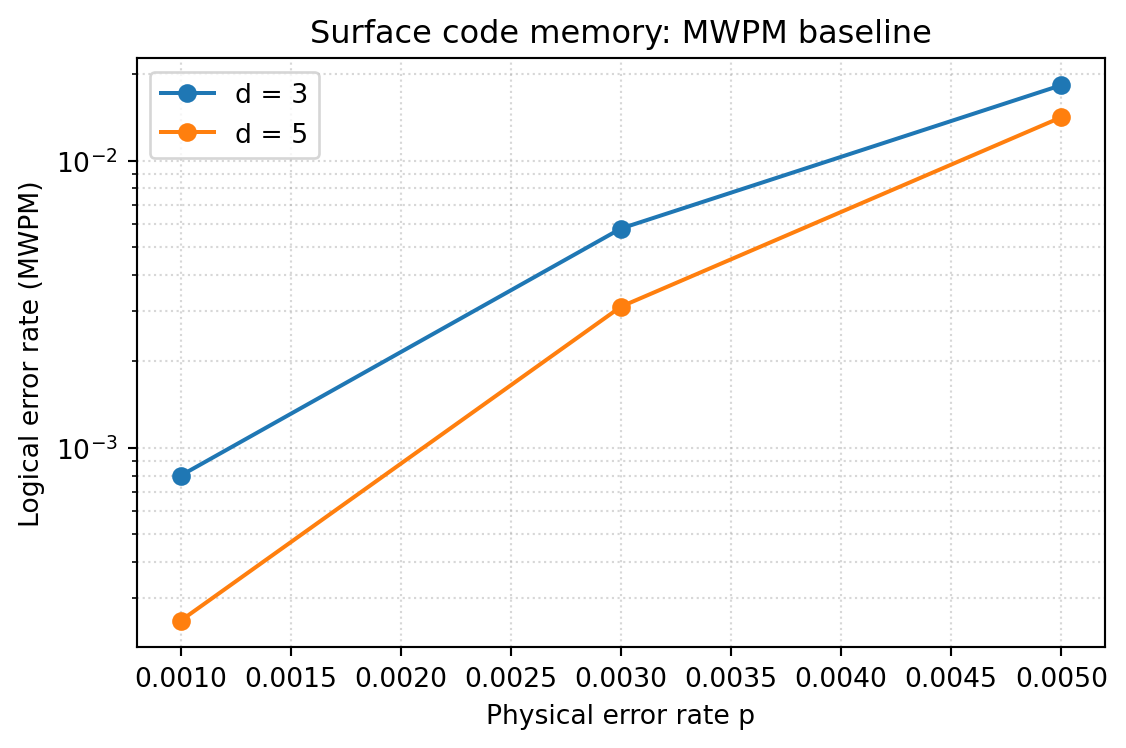
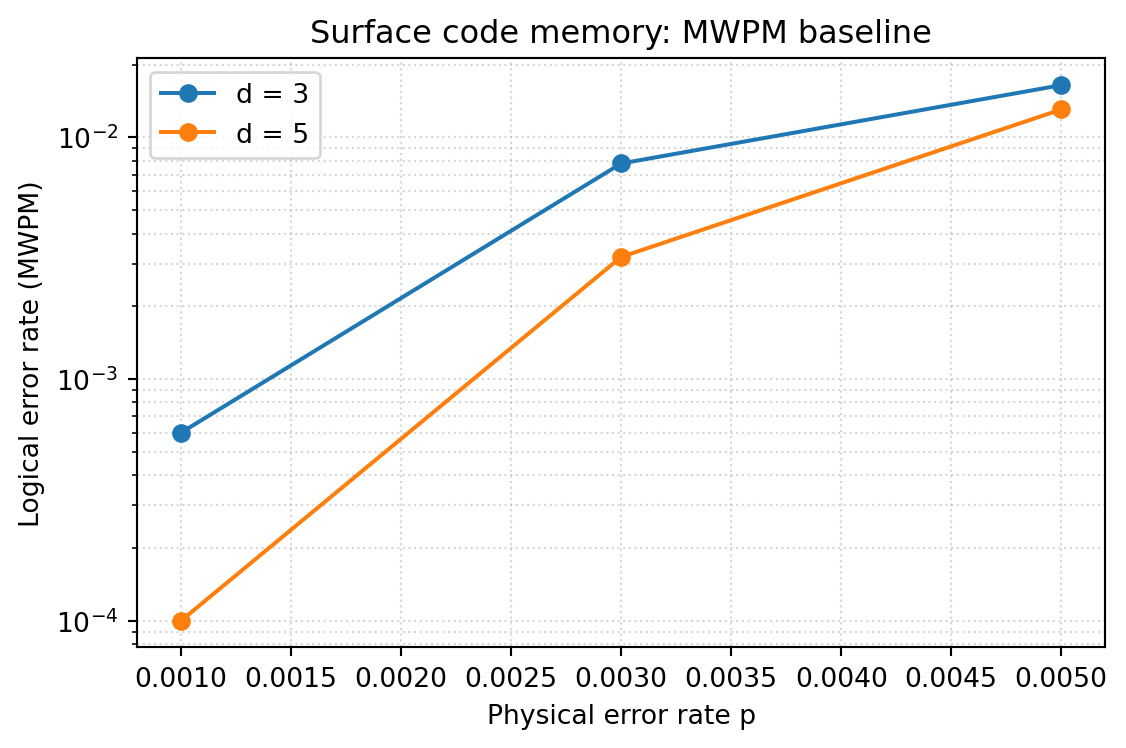
Built site for gh-pages

diff --git a/posts/project-roqet-02-qec-stim-stabilizer/index.html b/posts/project-roqet-02-qec-stim-stabilizer/index.html
@@ -10,7 +10,7 @@
 <meta name="dcterms.date" content="2026-04-13">
 <meta name="description" content="Surface Code의 안정자(Stabilizer) 개념과 양자 오류 정정의 동작 과정을 정리하고, Stim을 이용해 GNN 디코더 학습용 신드롬 데이터를 직접 생성합니다.">
 
-<title>[2026 ABC 프로젝트 멘토링 2기] 2주차 - QEC 기본 동작과 Stim으로 신드롬 데이터 생성하기 – beomdo’s ML-DL blog</title>
+<title>[2026 ABC 프로젝트 멘토링 2기] 프로젝트 2주차 - QEC 기본 동작과 Stim으로 신드롬 데이터 생성하기 – beomdo’s ML-DL blog</title>
 <style>
 /* Default styles provided by pandoc.
 ** See https://pandoc.org/MANUAL.html#variables-for-html for config info.
@@ -113,7 +113,7 @@ pre > code.sourceCode > span > a:first-child::before { text-decoration: underlin
   }
 }</script><meta name="google-site-verification" content="tQV_UbBEk_vL_s9vxCne2Yd0GPHJ4vn8s2pPhfV0PYo">
 <meta name="naver-site-verification" content="6c1006d6edf85b99c51f1f82aabd2a4fd68ec739">
-<script type="application/ld+json">{"@context":"https://schema.org","@type":"Article","author":{"@type":"Person","name":"Beomdo Park"},"dateModified":"April 19, 2026","datePublished":"April 13, 2026","description":"Surface Code의 안정자(Stabilizer) 개념과 양자 오류 정정의 동작 과정을 정리하고, Stim을 이용해 GNN 디코더 학습용 신드롬 데이터를 직접 생성합니다.","headline":"[2026 ABC 프로젝트 멘토링 2기] 2주차 - QEC 기본 동작과 Stim으로 신드롬 데이터 생성하기","keywords":["ABC프로젝트멘토링유클리드소프트고용노동부대한상공회의소미래내일일경험사업QEC"],"url":"https://beomdo-park.github.io"}</script>
+<script type="application/ld+json">{"@context":"https://schema.org","@type":"Article","author":{"@type":"Person","name":"Beomdo Park"},"dateModified":"April 19, 2026","datePublished":"April 13, 2026","description":"Surface Code의 안정자(Stabilizer) 개념과 양자 오류 정정의 동작 과정을 정리하고, Stim을 이용해 GNN 디코더 학습용 신드롬 데이터를 직접 생성합니다.","headline":"[2026 ABC 프로젝트 멘토링 2기] 프로젝트 2주차 - QEC 기본 동작과 Stim으로 신드롬 데이터 생성하기","keywords":["ABC프로젝트멘토링유클리드소프트고용노동부대한상공회의소미래내일일경험사업QEC"],"url":"https://beomdo-park.github.io"}</script>
 
   <script src="https://cdnjs.cloudflare.com/polyfill/v3/polyfill.min.js?features=es6"></script>
   <script defer="" src="https://cdn.jsdelivr.net/npm/mathjax@3/es5/tex-chtml-full.js" type="text/javascript"></script>
@@ -146,7 +146,7 @@ window.Quarto = {
 </script>
 
 <link rel="stylesheet" href="../../styles.css">
-<meta property="og:title" content="[2026 ABC 프로젝트 멘토링 2기] 2주차 - QEC 기본 동작과 Stim으로 신드롬 데이터 생성하기 – beomdo’s ML-DL blog">
+<meta property="og:title" content="[2026 ABC 프로젝트 멘토링 2기] 프로젝트 2주차 - QEC 기본 동작과 Stim으로 신드롬 데이터 생성하기 – beomdo’s ML-DL blog">
 <meta property="og:description" content="Surface Code의 안정자(Stabilizer) 개념과 양자 오류 정정의 동작 과정을 정리하고, Stim을 이용해 GNN 디코더 학습용 신드롬 데이터를 직접 생성합니다.">
 <meta property="og:image" content="https://beomdo-park.github.io/posts/project-roqet-02-qec-stim-stabilizer/index_files/figure-html/stim-detslice-output-1.svg">
 <meta property="og:site_name" content="beomdo’s ML-DL blog">
@@ -376,7 +376,7 @@ window.Quarto = {
 <header id="title-block-header" class="quarto-title-block default page-columns page-full">
   <div class="quarto-title-banner page-columns page-full">
     <div class="quarto-title column-page-left">
-      <h1 class="title">[2026 ABC 프로젝트 멘토링 2기] 2주차 - QEC 기본 동작과 Stim으로 신드롬 데이터 생성하기</h1>
+      <h1 class="title">[2026 ABC 프로젝트 멘토링 2기] 프로젝트 2주차 - QEC 기본 동작과 Stim으로 신드롬 데이터 생성하기</h1>
                   <div>
         <div class="description">
           Surface Code의 안정자(Stabilizer) 개념과 양자 오류 정정의 동작 과정을 정리하고, Stim을 이용해 GNN 디코더 학습용 신드롬 데이터를 직접 생성합니다.
@@ -670,7 +670,7 @@ DEPOLARIZE1(0.005) 2 11 16 25
 <div id="cell-stim-detslice" class="cell" data-execution_count="4">
 <div class="code-copy-outer-scaffold"><div class="sourceCode cell-code" id="cb7"><pre class="sourceCode python code-with-copy"><code class="sourceCode python"><span id="cb7-1"><a href="#cb7-1" aria-hidden="true" tabindex="-1"></a><span class="im">from</span> IPython.display <span class="im">import</span> SVG</span>
 <span id="cb7-2"><a href="#cb7-2" aria-hidden="true" tabindex="-1"></a>SVG(<span class="bu">str</span>(circuit.diagram(<span class="st">"detslice-svg"</span>)))</span></code></pre></div><button title="Copy to Clipboard" class="code-copy-button"><i class="bi"></i></button></div>
-<div class="cell-output cell-output-display" data-execution_count="17">
+<div class="cell-output cell-output-display" data-execution_count="4">
 <div id="stim-detslice" class="quarto-figure quarto-figure-center anchored">
 <figure class="figure">
 <p><img src="index_files/figure-html/stim-detslice-output-1.svg" class="img-fluid figure-img"></p>
@@ -700,7 +700,7 @@ DEPOLARIZE1(0.005) 2 11 16 25
 <span id="cb8-12"><a href="#cb8-12" aria-hidden="true" tabindex="-1"></a><span class="bu">print</span>(<span class="ss">f"detection_events.shape : </span><span class="sc">{</span>detection_events<span class="sc">.</span>shape<span class="sc">}</span><span class="ss">  (shots, num_detectors)"</span>)</span>
 <span id="cb8-13"><a href="#cb8-13" aria-hidden="true" tabindex="-1"></a><span class="bu">print</span>(<span class="ss">f"observable_flips.shape : </span><span class="sc">{</span>observable_flips<span class="sc">.</span>shape<span class="sc">}</span><span class="ss">  (shots, num_observables)"</span>)</span></code></pre></div><button title="Copy to Clipboard" class="code-copy-button"><i class="bi"></i></button></div>
 <div class="cell-output cell-output-stdout">
-<pre><code>샘플링 100,000샷 소요 시간: 9.9 ms
+<pre><code>샘플링 100,000샷 소요 시간: 4.7 ms
 detection_events.shape : (100000, 24)  (shots, num_detectors)
 observable_flips.shape : (100000, 1)  (shots, num_observables)</code></pre>
 </div>
@@ -723,18 +723,18 @@ observable_flips.shape : (100000, 1)  (shots, num_observables)</code></pre>
 <span id="cb10-12"><a href="#cb10-12" aria-hidden="true" tabindex="-1"></a>    show_sample(i)</span></code></pre></div><button title="Copy to Clipboard" class="code-copy-button"><i class="bi"></i></button></div>
 <div class="cell-output cell-output-stdout">
 <pre><code>[shot 0]
-  trigger 된 detector index : []
-  trigger 개수              : 0
-  논리 오류(λ_Z)            : 0
-
-[shot 1]
   trigger 된 detector index : [12]
   trigger 개수              : 1
   논리 오류(λ_Z)            : 0
 
+[shot 1]
+  trigger 된 detector index : []
+  trigger 개수              : 0
+  논리 오류(λ_Z)            : 0
+
 [shot 2]
-  trigger 된 detector index : [6]
-  trigger 개수              : 1
+  trigger 된 detector index : [0, 8]
+  trigger 개수              : 2
   논리 오류(λ_Z)            : 0
 </code></pre>
 </div>
@@ -755,20 +755,20 @@ observable_flips.shape : (100000, 1)  (shots, num_observables)</code></pre>
 <span id="cb12-9"><a href="#cb12-9" aria-hidden="true" tabindex="-1"></a>    bar <span class="op">=</span> <span class="st">"█"</span> <span class="op">*</span> <span class="bu">int</span>(<span class="dv">60</span> <span class="op">*</span> cnt <span class="op">/</span> N_SHOTS)</span>
 <span id="cb12-10"><a href="#cb12-10" aria-hidden="true" tabindex="-1"></a>    <span class="bu">print</span>(<span class="ss">f"  </span><span class="sc">{</span>k<span class="sc">:2d}</span><span class="ss"> | </span><span class="sc">{</span>cnt<span class="sc">:6d}</span><span class="ss">  </span><span class="sc">{</span>bar<span class="sc">}</span><span class="ss">"</span>)</span></code></pre></div><button title="Copy to Clipboard" class="code-copy-button"><i class="bi"></i></button></div>
 <div class="cell-output cell-output-stdout">
-<pre><code>논리 오류율 (raw, 디코더 없음): 10.3240%
-평균 detector 발화 수 / 샷    : 1.408
+<pre><code>논리 오류율 (raw, 디코더 없음): 10.3710%
+평균 detector 발화 수 / 샷    : 1.413
 detector 발화 수 분포 (0~10):
-   0 |  42529  █████████████████████████
-   1 |  15358  █████████
-   2 |  20508  ████████████
-   3 |  10066  ██████
-   4 |   6626  ███
-   5 |   2827  █
-   6 |   1324  
-   7 |    505  
-   8 |    187  
-   9 |     56  
-  10 |      8  </code></pre>
+   0 |  42246  █████████████████████████
+   1 |  15701  █████████
+   2 |  20277  ████████████
+   3 |  10153  ██████
+   4 |   6643  ███
+   5 |   2932  █
+   6 |   1309  
+   7 |    490  
+   8 |    185  
+   9 |     41  
+  10 |     19  </code></pre>
 </div>
 </div>
 <div class="callout callout-style-default callout-note callout-titled">
@@ -852,9 +852,9 @@ DEM 첫 5개 메커니즘:
 <span id="cb17-10"><a href="#cb17-10" aria-hidden="true" tabindex="-1"></a><span class="bu">print</span>(<span class="ss">f"디코더 없음(raw) 논리 오류율 : </span><span class="sc">{</span>logical_error_rate<span class="sc">:.4%}</span><span class="ss">"</span>)</span>
 <span id="cb17-11"><a href="#cb17-11" aria-hidden="true" tabindex="-1"></a><span class="bu">print</span>(<span class="ss">f"개선 비율                    : </span><span class="sc">{</span>logical_error_rate <span class="op">/</span> <span class="bu">max</span>(logical_error_rate_mwpm, <span class="fl">1e-12</span>)<span class="sc">:.1f}</span><span class="ss">x"</span>)</span></code></pre></div><button title="Copy to Clipboard" class="code-copy-button"><i class="bi"></i></button></div>
 <div class="cell-output cell-output-stdout">
-<pre><code>PyMatching(MWPM) 논리 오류율: 1.7140%
-디코더 없음(raw) 논리 오류율 : 10.3240%
-개선 비율                    : 6.0x</code></pre>
+<pre><code>PyMatching(MWPM) 논리 오류율: 1.6880%
+디코더 없음(raw) 논리 오류율 : 10.3710%
+개선 비율                    : 6.1x</code></pre>
 </div>
 </div>
 <p>이 숫자가 우리 GNN 디코더가 따라잡거나 능가해야 할 baseline입니다. 1주차에 본 Lange et al.&nbsp;(2025) 논문에서는 동일한 셋업에서 GNN이 MWPM을 의미 있게 능가했죠.</p>
@@ -864,7 +864,7 @@ DEM 첫 5개 메커니즘:
 <div id="cell-stim-matchgraph" class="cell" data-execution_count="11">
 <div class="code-copy-outer-scaffold"><div class="sourceCode cell-code" id="cb19"><pre class="sourceCode python code-with-copy"><code class="sourceCode python"><span id="cb19-1"><a href="#cb19-1" aria-hidden="true" tabindex="-1"></a><span class="im">from</span> IPython.display <span class="im">import</span> SVG</span>
 <span id="cb19-2"><a href="#cb19-2" aria-hidden="true" tabindex="-1"></a>SVG(<span class="bu">str</span>(circuit.diagram(<span class="st">"matchgraph-svg"</span>)))</span></code></pre></div><button title="Copy to Clipboard" class="code-copy-button"><i class="bi"></i></button></div>
-<div class="cell-output cell-output-display" data-execution_count="24">
+<div class="cell-output cell-output-display" data-execution_count="11">
 <div id="stim-matchgraph" class="quarto-figure quarto-figure-center anchored">
 <figure class="figure">
 <p><img src="index_files/figure-html/stim-matchgraph-output-1.svg" class="img-fluid figure-img"></p>
@@ -906,12 +906,12 @@ DEM 첫 5개 메커니즘:
 <span id="cb20-23"><a href="#cb20-23" aria-hidden="true" tabindex="-1"></a>        results.append((d, p, ler))</span>
 <span id="cb20-24"><a href="#cb20-24" aria-hidden="true" tabindex="-1"></a>        <span class="bu">print</span>(<span class="ss">f"d=</span><span class="sc">{</span>d<span class="sc">}</span><span class="ss">, p=</span><span class="sc">{</span>p<span class="sc">:.3f}</span><span class="ss">  →  MWPM logical error = </span><span class="sc">{</span>ler<span class="sc">:.4%}</span><span class="ss">"</span>)</span></code></pre></div><button title="Copy to Clipboard" class="code-copy-button"><i class="bi"></i></button></div>
 <div class="cell-output cell-output-stdout">
-<pre><code>d=3, p=0.001  →  MWPM logical error = 0.0800%
-d=3, p=0.003  →  MWPM logical error = 0.5800%
-d=3, p=0.005  →  MWPM logical error = 1.8300%
-d=5, p=0.001  →  MWPM logical error = 0.0250%
-d=5, p=0.003  →  MWPM logical error = 0.3100%
-d=5, p=0.005  →  MWPM logical error = 1.4150%</code></pre>
+<pre><code>d=3, p=0.001  →  MWPM logical error = 0.0600%
+d=3, p=0.003  →  MWPM logical error = 0.7800%
+d=3, p=0.005  →  MWPM logical error = 1.6450%
+d=5, p=0.001  →  MWPM logical error = 0.0100%
+d=5, p=0.003  →  MWPM logical error = 0.3200%
+d=5, p=0.005  →  MWPM logical error = 1.3050%</code></pre>
 </div>
 </div>
 <div id="cell-scan-plot" class="cell" data-execution_count="13">

diff --git a/index.html b/index.html
@@ -510,7 +510,7 @@ document.addEventListener('DOMContentLoaded', function() {
     </div>
 </div>
 <div class="list quarto-listing-default">
[2 lines of base64/hex data omitted]
 <div class="thumbnail"><a href="./posts/project-roqet-03-detector-graph-gnn/index.html" class="no-external">
 
 <p class="card-img-top"><img loading='lazy' src="posts/project-roqet-03-detector-graph-gnn/index_files/figure-html/loss-curve-output-1.png"  class="thumbnail-image card-img"/></p>
@@ -518,7 +518,7 @@ document.addEventListener('DOMContentLoaded', function() {
 </a></div>
 <div class="body">
 <h3 class="no-anchor listing-title">
-<a href="./posts/project-roqet-03-detector-graph-gnn/index.html" class="no-external">[2026 ABC 프로젝트 멘토링 2기] 3주차 - Annotated Detector Graph와 GNN 디코더 첫 학습</a>
+<a href="./posts/project-roqet-03-detector-graph-gnn/index.html" class="no-external">[2026 ABC 프로젝트 멘토링 2기] 프로젝트 3주차 - Annotated Detector Graph와 GNN 디코더 첫 학습</a>
 </h3>
 <div class="listing-categories">
 
@@ -553,7 +553,7 @@ Beomdo Park
 </a>
 </div>
 </div>
[2 lines of base64/hex data omitted]
 <div class="thumbnail"><a href="./posts/project-roqet-02-qec-stim-stabilizer/index.html" class="no-external">
 
 <p class="card-img-top"><img loading='lazy' src="posts/project-roqet-02-qec-stim-stabilizer/index_files/figure-html/stim-detslice-output-1.svg"  class="thumbnail-image card-img"/></p>
@@ -561,7 +561,7 @@ Beomdo Park
 </a></div>
 <div class="body">
 <h3 class="no-anchor listing-title">
-<a href="./posts/project-roqet-02-qec-stim-stabilizer/index.html" class="no-external">[2026 ABC 프로젝트 멘토링 2기] 2주차 - QEC 기본 동작과 Stim으로 신드롬 데이터 생성하기</a>
+<a href="./posts/project-roqet-02-qec-stim-stabilizer/index.html" class="no-external">[2026 ABC 프로젝트 멘토링 2기] 프로젝트 2주차 - QEC 기본 동작과 Stim으로 신드롬 데이터 생성하기</a>
 </h3>
 <div class="listing-categories">
 
@@ -594,7 +594,7 @@ Beomdo Park
 </a>
 </div>
 </div>
[2 lines of base64/hex data omitted]
 <div class="thumbnail"><a href="./posts/project-roqet-01-gnn-quantization/index.html" class="no-external">
 
 <div class="listing-item-img-placeholder card-img-top" >&nbsp;</div>
@@ -602,7 +602,7 @@ Beomdo Park
 </a></div>
 <div class="body">
 <h3 class="no-anchor listing-title">
-<a href="./posts/project-roqet-01-gnn-quantization/index.html" class="no-external">[2026 ABC 프로젝트 멘토링 2기] 1주차 - GNN과 Post-Training Quantization 개요</a>
+<a href="./posts/project-roqet-01-gnn-quantization/index.html" class="no-external">[2026 ABC 프로젝트 멘토링 2기] 프로젝트 1주차 - GNN과 Post-Training Quantization 개요</a>
 </h3>
 <div class="listing-categories">
 
@@ -635,7 +635,7 @@ Beomdo Park
 </a>
 </div>
 </div>
-<div class="quarto-post image-right" data-index="3" data-categories="R2l0SHVi" data-listing-date-sort="1764633600000" data-listing-file-modified-sort="1776605891913" data-listing-date-modified-sort="1776605891000" data-listing-reading-time-sort="2" data-listing-word-count-sort="356">
+<div class="quarto-post image-right" data-index="3" data-categories="R2l0SHVi" data-listing-date-sort="1764633600000" data-listing-file-modified-sort="1776606277697" data-listing-date-modified-sort="1776606277000" data-listing-reading-time-sort="2" data-listing-word-count-sort="356">
 <div class="thumbnail"><a href="./posts/guide-github-01-branch-strategy/index.html" class="no-external">
 
 <img loading="lazy" src="./assets/github-mark.png" class="thumbnail-image" alt="GitHub Mark">
@@ -666,7 +666,7 @@ Beomdo Park
 </a>
 </div>
 </div>
[2 lines of base64/hex data omitted]
 <div class="thumbnail"><a href="./posts/project-abc-05-real-data-analysis/index.html" class="no-external">
 
 <p class="card-img-top"><img loading='lazy' src="posts/project-abc-05-real-data-analysis/index_files/figure-html/data-preprocessing-output-3.png"  class="thumbnail-image card-img"/></p>
@@ -699,7 +699,7 @@ Beomdo Park
 </a>
 </div>
 </div>
[2 lines of base64/hex data omitted]
 <div class="thumbnail"><a href="./posts/project-abc-04-model-optimization/index.html" class="no-external">
 
 <img loading="lazy" src="./posts/project-abc-04-model-optimization/image.png" class="thumbnail-image">
@@ -732,7 +732,7 @@ Beomdo Park
 </a>
 </div>
 </div>
[2 lines of base64/hex data omitted]
 <div class="thumbnail"><a href="./posts/project-abc-03-cnn-baseline/index.html" class="no-external">
 
 <p class="card-img-top"><img loading='lazy' src="posts/project-abc-03-cnn-baseline/index_files/figure-html/visualization-output-1.png"  class="thumbnail-image card-img"/></p>
@@ -765,7 +765,7 @@ Beomdo Park
 </a>
 </div>
 </div>
[2 lines of base64/hex data omitted]
 <div class="thumbnail"><a href="./posts/project-abc-02-time-series-anomaly/index.html" class="no-external">
 
 <p class="card-img-top"><img loading='lazy' src="posts/project-abc-02-time-series-anomaly/index_files/figure-html/plot-sample-data-output-1.png"  class="thumbnail-image card-img"/></p>
@@ -798,7 +798,7 @@ Beomdo Park
 </a>
 </div>
 </div>
[2 lines of base64/hex data omitted]
 <div class="thumbnail"><a href="./posts/project-abc-01-data-analysis/index.html" class="no-external">
 
 <p class="card-img-top"><img loading='lazy' src="posts/project-abc-01-data-analysis/index_files/figure-html/fig-time-series-plot-power-output-1.png"  class="thumbnail-image card-img"/></p>

diff --git a/posts/project-roqet-03-detector-graph-gnn/index.html b/posts/project-roqet-03-detector-graph-gnn/index.html
@@ -10,7 +10,7 @@
 <meta name="dcterms.date" content="2026-04-20">
 <meta name="description" content="Stim으로 만든 신드롬 데이터를 annotated detector graph로 변환하고, PyTorch Geometric 기반 GraphConv 디코더의 첫 학습 파이프라인을 정리합니다.">
 
-<title>[2026 ABC 프로젝트 멘토링 2기] 3주차 - Annotated Detector Graph와 GNN 디코더 첫 학습 – beomdo’s ML-DL blog</title>
+<title>[2026 ABC 프로젝트 멘토링 2기] 프로젝트 3주차 - Annotated Detector Graph와 GNN 디코더 첫 학습 – beomdo’s ML-DL blog</title>
 <style>
 /* Default styles provided by pandoc.
 ** See https://pandoc.org/MANUAL.html#variables-for-html for config info.
@@ -113,7 +113,7 @@ pre > code.sourceCode > span > a:first-child::before { text-decoration: underlin
   }
 }</script><meta name="google-site-verification" content="tQV_UbBEk_vL_s9vxCne2Yd0GPHJ4vn8s2pPhfV0PYo">
 <meta name="naver-site-verification" content="6c1006d6edf85b99c51f1f82aabd2a4fd68ec739">
-<script type="application/ld+json">{"@context":"https://schema.org","@type":"Article","author":{"@type":"Person","name":"Beomdo Park"},"dateModified":"April 19, 2026","datePublished":"April 20, 2026","description":"Stim으로 만든 신드롬 데이터를 annotated detector graph로 변환하고, PyTorch Geometric 기반 GraphConv 디코더의 첫 학습 파이프라인을 정리합니다.","headline":"[2026 ABC 프로젝트 멘토링 2기] 3주차 - Annotated Detector Graph와 GNN 디코더 첫 학습","keywords":["ABC프로젝트멘토링유클리드소프트고용노동부대한상공회의소미래내일일경험사업PyTorchQEC"],"url":"https://beomdo-park.github.io"}</script>
+<script type="application/ld+json">{"@context":"https://schema.org","@type":"Article","author":{"@type":"Person","name":"Beomdo Park"},"dateModified":"April 19, 2026","datePublished":"April 20, 2026","description":"Stim으로 만든 신드롬 데이터를 annotated detector graph로 변환하고, PyTorch Geometric 기반 GraphConv 디코더의 첫 학습 파이프라인을 정리합니다.","headline":"[2026 ABC 프로젝트 멘토링 2기] 프로젝트 3주차 - Annotated Detector Graph와 GNN 디코더 첫 학습","keywords":["ABC프로젝트멘토링유클리드소프트고용노동부대한상공회의소미래내일일경험사업PyTorchQEC"],"url":"https://beomdo-park.github.io"}</script>
 
   <script src="https://cdnjs.cloudflare.com/polyfill/v3/polyfill.min.js?features=es6"></script>
   <script defer="" src="https://cdn.jsdelivr.net/npm/mathjax@3/es5/tex-chtml-full.js" type="text/javascript"></script>
@@ -146,7 +146,7 @@ window.Quarto = {
 </script>
 
 <link rel="stylesheet" href="../../styles.css">
-<meta property="og:title" content="[2026 ABC 프로젝트 멘토링 2기] 3주차 - Annotated Detector Graph와 GNN 디코더 첫 학습 – beomdo’s ML-DL blog">
+<meta property="og:title" content="[2026 ABC 프로젝트 멘토링 2기] 프로젝트 3주차 - Annotated Detector Graph와 GNN 디코더 첫 학습 – beomdo’s ML-DL blog">
 <meta property="og:description" content="Stim으로 만든 신드롬 데이터를 annotated detector graph로 변환하고, PyTorch Geometric 기반 GraphConv 디코더의 첫 학습 파이프라인을 정리합니다.">
 <meta property="og:image" content="https://beomdo-park.github.io/posts/project-roqet-03-detector-graph-gnn/index_files/figure-html/loss-curve-output-1.png">
 <meta property="og:site_name" content="beomdo’s ML-DL blog">
@@ -378,7 +378,7 @@ window.Quarto = {
 <header id="title-block-header" class="quarto-title-block default page-columns page-full">
   <div class="quarto-title-banner page-columns page-full">
     <div class="quarto-title column-page-left">
-      <h1 class="title">[2026 ABC 프로젝트 멘토링 2기] 3주차 - Annotated Detector Graph와 GNN 디코더 첫 학습</h1>
+      <h1 class="title">[2026 ABC 프로젝트 멘토링 2기] 프로젝트 3주차 - Annotated Detector Graph와 GNN 디코더 첫 학습</h1>
                   <div>
         <div class="description">
           Stim으로 만든 신드롬 데이터를 annotated detector graph로 변환하고, PyTorch Geometric 기반 GraphConv 디코더의 첫 학습 파이프라인을 정리합니다.
@@ -722,9 +722,9 @@ edge weight 분포 : min=3.96, median=5.06, max=6.62</code></pre>
 <span id="cb8-18"><a href="#cb8-18" aria-hidden="true" tabindex="-1"></a><span class="bu">print</span>(<span class="ss">f"Data 객체 생성   : </span><span class="sc">{</span><span class="bu">len</span>(dataset)<span class="sc">:,}</span><span class="ss">개 / </span><span class="sc">{</span>build_s<span class="sc">:.2f}</span><span class="ss"> s"</span>)</span>
 <span id="cb8-19"><a href="#cb8-19" aria-hidden="true" tabindex="-1"></a><span class="bu">print</span>(<span class="ss">f"raw 논리 오류율  : </span><span class="sc">{</span>observable_flips<span class="sc">.</span>mean()<span class="sc">:.4%}</span><span class="ss">"</span>)</span></code></pre></div><button title="Copy to Clipboard" class="code-copy-button"><i class="bi"></i></button></div>
 <div class="cell-output cell-output-stdout">
-<pre><code>Stim 샘플링      : 30,000샷 / 16.7 ms
-Data 객체 생성   : 30,000개 / 1.60 s
-raw 논리 오류율  : 10.5100%</code></pre>
+<pre><code>Stim 샘플링      : 30,000샷 / 4.0 ms
+Data 객체 생성   : 30,000개 / 1.16 s
+raw 논리 오류율  : 10.3500%</code></pre>
 </div>
 </div>
 <p>PyG의 <code>DataLoader</code>는 내부적으로 배치 안의 그래프들을 하나의 큰 disjoint 그래프로 묶어 주므로, 우리는 단일 그래프인 것처럼 forward만 짜면 됩니다.</p>
@@ -839,12 +839,12 @@ raw 논리 오류율  : 10.5100%</code></pre>
 <span id="cb14-28"><a href="#cb14-28" aria-hidden="true" tabindex="-1"></a>        <span class="bu">print</span>(<span class="ss">f"epoch </span><span class="sc">{</span>epoch<span class="sc">:02d}</span><span class="ss"> | train loss </span><span class="sc">{</span>tr_loss<span class="sc">:.4f}</span><span class="ss"> / LER </span><span class="sc">{</span>tr_ler<span class="sc">:.4%}</span><span class="ss">"</span></span>
 <span id="cb14-29"><a href="#cb14-29" aria-hidden="true" tabindex="-1"></a>              <span class="ss">f" | val loss </span><span class="sc">{</span>va_loss<span class="sc">:.4f}</span><span class="ss"> / LER </span><span class="sc">{</span>va_ler<span class="sc">:.4%}</span><span class="ss">"</span>)</span></code></pre></div><button title="Copy to Clipboard" class="code-copy-button"><i class="bi"></i></button></div>
 <div class="cell-output cell-output-stdout">
-<pre><code>epoch 01 | train loss 0.7136 / LER 13.6815% | val loss 0.3204 / LER 11.2667%
-epoch 03 | train loss 0.2879 / LER 10.4407% | val loss 0.2779 / LER 11.2667%
-epoch 06 | train loss 0.1620 / LER 6.3519% | val loss 0.1436 / LER 5.4000%
-epoch 09 | train loss 0.1069 / LER 3.2519% | val loss 0.1033 / LER 3.1667%
-epoch 12 | train loss 0.0987 / LER 3.0556% | val loss 0.1048 / LER 2.9667%
-epoch 15 | train loss 0.0930 / LER 2.9444% | val loss 0.0993 / LER 3.0667%</code></pre>
+<pre><code>epoch 01 | train loss 0.6888 / LER 13.5296% | val loss 0.3038 / LER 10.3667%
+epoch 03 | train loss 0.2676 / LER 10.0630% | val loss 0.2454 / LER 8.7333%
+epoch 06 | train loss 0.1830 / LER 7.2296% | val loss 0.1644 / LER 5.9667%
+epoch 09 | train loss 0.1270 / LER 4.2741% | val loss 0.1216 / LER 3.6667%
+epoch 12 | train loss 0.1050 / LER 3.5296% | val loss 0.1062 / LER 3.6667%
+epoch 15 | train loss 0.1014 / LER 3.2926% | val loss 0.0991 / LER 2.9333%</code></pre>
 </div>
 </div>
 </section>
@@ -904,13 +904,13 @@ epoch 15 | train loss 0.0930 / LER 2.9444% | val loss 0.0993 / LER 3.0667%</code
 <span id="cb17-10"><a href="#cb17-10" aria-hidden="true" tabindex="-1"></a><span class="bu">print</span>(<span class="ss">f"MWPM (PyMatching)        : </span><span class="sc">{</span>mwpm_ler<span class="sc">:.4%}</span><span class="ss">"</span>)</span>
 <span id="cb17-11"><a href="#cb17-11" aria-hidden="true" tabindex="-1"></a><span class="bu">print</span>(<span class="ss">f"TinyGraphDecoder (val)   : </span><span class="sc">{</span>gnn_ler<span class="sc">:.4%}</span><span class="ss">"</span>)</span></code></pre></div><button title="Copy to Clipboard" class="code-copy-button"><i class="bi"></i></button></div>
 <div class="cell-output cell-output-stdout">
-<pre><code>raw (디코더 없음)        : 10.5100%
-MWPM (PyMatching)        : 1.7033%
-TinyGraphDecoder (val)   : 3.0667%</code></pre>
+<pre><code>raw (디코더 없음)        : 10.3500%
+MWPM (PyMatching)        : 1.7633%
+TinyGraphDecoder (val)   : 2.9333%</code></pre>
 </div>
 </div>
 <div id="cell-comparison-table" class="cell" data-execution_count="11">
-<div id="comparison-table" class="cell-output cell-output-display cell-output-markdown" data-execution_count="33">
+<div id="comparison-table" class="cell-output cell-output-display cell-output-markdown" data-execution_count="11">
 <table class="caption-top table table-sm table-striped small">
 <colgroup>
 <col style="width: 41%">
@@ -927,17 +927,17 @@ TinyGraphDecoder (val)   : 3.0667%</code></pre>
 <tbody>
 <tr class="odd">
 <td style="text-align: left;">디코더 없음 (raw)</td>
-<td style="text-align: left;">10.51%</td>
+<td style="text-align: left;">10.35%</td>
 <td style="text-align: left;">신드롬을 그냥 무시한 경우</td>
 </tr>
 <tr class="even">
 <td style="text-align: left;">MWPM (PyMatching)</td>
-<td style="text-align: left;">1.70%</td>
+<td style="text-align: left;">1.76%</td>
 <td style="text-align: left;">그래프-알고리즘 baseline</td>
 </tr>
 <tr class="odd">
 <td style="text-align: left;">TinyGraphDecoder (본 포스트)</td>
-<td style="text-align: left;">3.07%</td>
+<td style="text-align: left;">2.93%</td>
 <td style="text-align: left;">15 epoch, 엣지 피처 미사용</td>
 </tr>
 </tbody>

diff --git a/posts/project-roqet-01-gnn-quantization/index.html b/posts/project-roqet-01-gnn-quantization/index.html
@@ -10,7 +10,7 @@
 <meta name="dcterms.date" content="2026-04-06">
 <meta name="description" content="GNN 기반 양자 오류 정정 디코더 프로젝트의 방법론인 Graph Neural Network와 Post-Training Quantization의 개념을 정리합니다.">
 
-<title>[2026 ABC 프로젝트 멘토링 2기] 1주차 - GNN과 Post-Training Quantization 개요 – beomdo’s ML-DL blog</title>
+<title>[2026 ABC 프로젝트 멘토링 2기] 프로젝트 1주차 - GNN과 Post-Training Quantization 개요 – beomdo’s ML-DL blog</title>
 <style>
 /* Default styles provided by pandoc.
 ** See https://pandoc.org/MANUAL.html#variables-for-html for config info.
@@ -78,7 +78,7 @@ ul.task-list li input[type="checkbox"] {
   }
 }</script><meta name="google-site-verification" content="tQV_UbBEk_vL_s9vxCne2Yd0GPHJ4vn8s2pPhfV0PYo">
 <meta name="naver-site-verification" content="6c1006d6edf85b99c51f1f82aabd2a4fd68ec739">
-<script type="application/ld+json">{"@context":"https://schema.org","@type":"Article","author":{"@type":"Person","name":"Beomdo Park"},"dateModified":"April 19, 2026","datePublished":"April 6, 2026","description":"GNN 기반 양자 오류 정정 디코더 프로젝트의 방법론인 Graph Neural Network와 Post-Training Quantization의 개념을 정리합니다.","headline":"[2026 ABC 프로젝트 멘토링 2기] 1주차 - GNN과 Post-Training Quantization 개요","keywords":["ABC프로젝트멘토링유클리드소프트고용노동부대한상공회의소미래내일일경험사업PyTorch"],"url":"https://beomdo-park.github.io"}</script>
+<script type="application/ld+json">{"@context":"https://schema.org","@type":"Article","author":{"@type":"Person","name":"Beomdo Park"},"dateModified":"April 19, 2026","datePublished":"April 6, 2026","description":"GNN 기반 양자 오류 정정 디코더 프로젝트의 방법론인 Graph Neural Network와 Post-Training Quantization의 개념을 정리합니다.","headline":"[2026 ABC 프로젝트 멘토링 2기] 프로젝트 1주차 - GNN과 Post-Training Quantization 개요","keywords":["ABC프로젝트멘토링유클리드소프트고용노동부대한상공회의소미래내일일경험사업PyTorch"],"url":"https://beomdo-park.github.io"}</script>
 
   <script src="https://cdnjs.cloudflare.com/polyfill/v3/polyfill.min.js?features=es6"></script>
   <script defer="" src="https://cdn.jsdelivr.net/npm/mathjax@3/es5/tex-chtml-full.js" type="text/javascript"></script>
@@ -111,7 +111,7 @@ window.Quarto = {
 </script>
 
 <link rel="stylesheet" href="../../styles.css">
-<meta property="og:title" content="[2026 ABC 프로젝트 멘토링 2기] 1주차 - GNN과 Post-Training Quantization 개요 – beomdo’s ML-DL blog">
+<meta property="og:title" content="[2026 ABC 프로젝트 멘토링 2기] 프로젝트 1주차 - GNN과 Post-Training Quantization 개요 – beomdo’s ML-DL blog">
 <meta property="og:description" content="GNN 기반 양자 오류 정정 디코더 프로젝트의 방법론인 Graph Neural Network와 Post-Training Quantization의 개념을 정리합니다.">
 <meta property="og:site_name" content="beomdo’s ML-DL blog">
 </head>
@@ -340,7 +340,7 @@ window.Quarto = {
 <header id="title-block-header" class="quarto-title-block default page-columns page-full">
   <div class="quarto-title-banner page-columns page-full">
     <div class="quarto-title column-page-left">
-      <h1 class="title">[2026 ABC 프로젝트 멘토링 2기] 1주차 - GNN과 Post-Training Quantization 개요</h1>
+      <h1 class="title">[2026 ABC 프로젝트 멘토링 2기] 프로젝트 1주차 - GNN과 Post-Training Quantization 개요</h1>
                   <div>
         <div class="description">
           GNN 기반 양자 오류 정정 디코더 프로젝트의 방법론인 Graph Neural Network와 Post-Training Quantization의 개념을 정리합니다.
